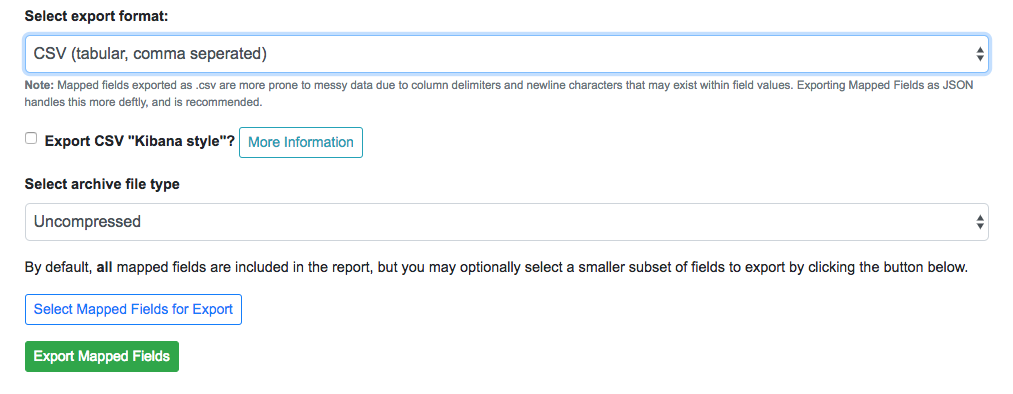
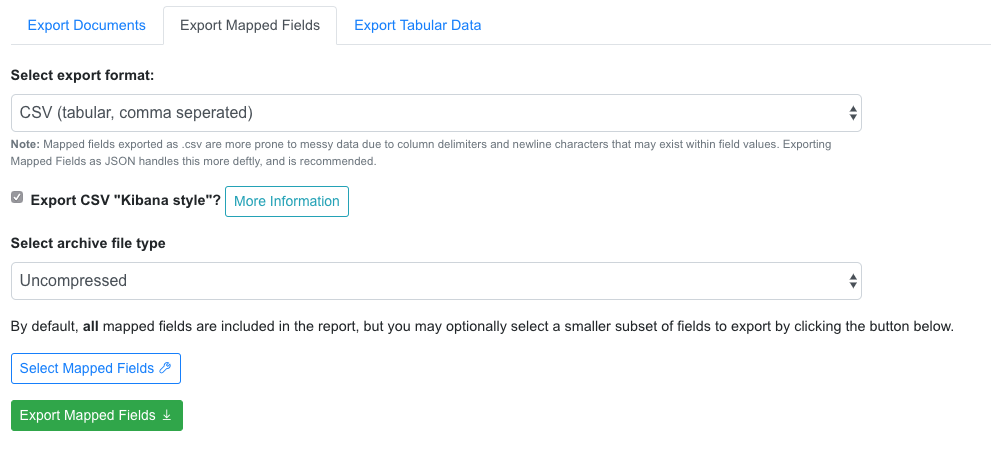
building out tab export harvest docs

diff --git a/core/templates/core/job_harvest_tabular_data.html b/core/templates/core/job_harvest_tabular_data.html
@@ -8,7 +8,7 @@
 			<p>Harvest Records from tabular data, including .CSV and JSONlines.</p>
 		</div>
 	</div>
-		
+
 
 	<div class="row">
 		<div class="col-md-12">
@@ -30,19 +30,19 @@
 							<span aria-hidden="true">&times;</span>
 							</button>
 						</div>
-						{% csrf_token %}						
+						{% csrf_token %}
 
 						<!-- payload -->
 						<h5>Provide Static Content</h5>
 						<p>For static harvests, upload content, or provide a location on the filesystem where a file can be found.</p>
-						
+
 						<ul class="nav nav-tabs">
 							<li class="nav-item">
 								<a class="nav-link active" data-toggle="tab" href="#upload_tab">Upload</a>
 							</li>
-							<li class="nav-item">								
+							<li class="nav-item">
 								<a class="nav-link" data-toggle="tab" href="#filesystem_tab">Filesystem</a>
-							</li>					
+							</li>
 						</ul>
 
 						<div class="tab-content">
@@ -53,15 +53,15 @@
 									<button type="button" class="close" data-dismiss="alert" aria-label="Close">
 									<span aria-hidden="true">&times;</span>
 									</button>
-								</div>								
+								</div>
 								<div class="custom-file">
 								   <input type="file" id="static_payload" name="static_payload" class="custom-file-input">
 								   <label for="static_payload" class="custom-file-label">Choose file...</label>
 								</div>
 								<script>
-									$('.custom-file-input').on('change', function() { 
-									   let fileName = $(this).val().split('\\').pop(); 
-									   $(this).next('.custom-file-label').addClass("selected").html(fileName); 
+									$('.custom-file-input').on('change', function() {
+									   let fileName = $(this).val().split('\\').pop();
+									   $(this).next('.custom-file-label').addClass("selected").html(fileName);
 									});
 								</script>
 							</div>
@@ -84,13 +84,13 @@
 				<div class="row">
 
 					<div class="col-md-12">
-						
+
 						<div class="gray_box">
 
 							<h5>Ingest Parameters</h5>
 
 							<p>The same configuration language used to map fields from XML, is the same used to create XML from fields!  Select a pre-existing field mapper configuration, or edit the one below, to be used for this tabular harvest.</p>
-							
+
 							<div class="form-group">
 								<label for="harvest_field_mapper">Configuration Name</label>
 								<select class="form-control" id="harvest_field_mapper" name="harvest_field_mapper">
@@ -109,7 +109,7 @@
 
 							<!-- visible JSON editor -->
 							<div id="harvest_config_editor" style="height:450px;"></div>
-							
+
 							<script>
 						        // create the editor
 						        var container = document.getElementById("harvest_config_editor");
@@ -245,7 +245,7 @@
 									},
 									dataType:'json',
 									success: function(data){
-										
+
 										// notify user
 										alert = `<div class="alert alert-success alert-dismissible fade show expiring" role="alert">
 											${data.msg}
@@ -256,7 +256,7 @@
 										$("#fm_harvest_config_alerts").append(alert);
 									},
 									error: function(data){
-										
+
 										// notify user
 										alert = `<div class="alert alert-danger alert-dismissible fade show expiring" role="alert">
 											${data.responseJSON.msg}
@@ -269,18 +269,18 @@
 								});
 							}
 							else {
-								alert('A name for this configuration is rquired!');								
+								alert('A name for this configuration is rquired!');
 							}
 						}
 
 					</script>
 
-				</div>				
-				
+				</div>
+
 				<!-- Optional Job Processing -->
 				{% include 'core/job_optional_processing.html' %}
 
-				<button type="submit" class="btn btn-success btn-sm">Run Static Harvest Job <i class="la la-play"></i></button>
+				<button type="submit" class="btn btn-success btn-sm">Run Tabular Harvest Job <i class="la la-play"></i></button>
 
 			</form>
 

diff --git a/core/templates/core/export.html b/core/templates/core/export.html
@@ -14,7 +14,7 @@
 			</p>
 
 			<div class="alert alert-info alert-dismissible fade show" role="alert">
-				Select a tab below to export Records as <strong>full XML Documents</strong>, <strong>Mapped Fields as JSON</strong>, or <strong>Mapped Fields as CSV</strong>
+				Select a tab below to export Records as <strong>full XML Documents</strong>, <strong>Mapped Fields</strong>, or <strong>Tabular Data</strong>
 				<button type="button" class="close" data-dismiss="alert" aria-label="Close">
 				<span aria-hidden="true">&times;</span>
 				</button>

diff --git a/docs/harvesting.rst b/docs/harvesting.rst
@@ -4,7 +4,11 @@ Harvesting Records
 
 Harvesting is how Records are first introduced to Combine.  Like all Jobs, Harvest Jobs are run from the the Record Group overview page.
 
-The following will outline specifics for running Harvest Jobs, with more `general information about running Jobs here <workflow.html#running-jobs>`_.
+The following will outline specifics for running Harvest Jobs, with more `general information about running Jobs here <workflow.html#running-jobs>`_.  Currently, Combine supports the following types of harvests:
+
+  * `OAI-PMH <#oai-pmh-harvesting>`_
+  * `Static XML <#static-xml-file-harvest>`_
+  * `Tabular / Spreadsheet <#tabular-data-spreadsheet-harvesting>`_
 
 
 OAI-PMH Harvesting
@@ -16,7 +20,7 @@ Before running an OAI harvest, you must first `configure an OAI Endpoint <config
 
 From the Record Group page, click the "Harvest OAI-PMH" button at the bottom.
 
-Like all Jobs, you may optionally give the Job a name or add notes.  
+Like all Jobs, you may optionally give the Job a name or add notes.
 
 Below that, indicated by a green alert, are the required parameters for an OAI Job.  First, is to select your pre-configured OAI endpoint.  In the screenshot below, an example OAI endpoint has been selected:
 
@@ -39,8 +43,8 @@ As an Harvest type Job, OAI harvests are responsible for creating a Record Ident
 As you continue on your metadata harvesting, transforming, and publishing journey, and you are thinking about how identifiers came to be, or might be changed, this is a good place to start from to see what the originating identifier was.
 
 
-Static File Harvest
-===================
+Static XML File Harvest
+=======================
 
 It is also possible to harvest Records from static sources, e.g. XML uploads.  Combine uses `Databricks Spark-XML <https://github.com/databricks/spark-xml>`_ to parse XML records from uploaded content.  This utilizes the powerful `globbing capabilities of Hadoop <https://hail.is/docs/stable/hadoop_glob_patterns.html>`_ for locating XML files.  Users may also provide a location on disk as opposed to uploading a file, but this is probably less commonly used, and the documentation will focus on uploads.
 
@@ -96,7 +100,7 @@ Once a file has been selected for uploading, and these required parameters are s
 Is this altering the XML records that I am providing Combine?
 -------------------------------------------------------------
 
-The short answer is, **yes**.  But, it's important to remember that XML files are often altered in some way when parsed and re-serialized.  Their integrity is not character-by-character similarlity, but what data can be parsed.  This approach only alters the declarations in the root XML element.  
+The short answer is, **yes**.  But, it's important to remember that XML files are often altered in some way when parsed and re-serialized.  Their integrity is not character-by-character similarlity, but what data can be parsed.  This approach only alters the declarations in the root XML element.
 
 Uploads to Combine that already include namespaces, and all required declarations, at the level of each individual Record, do not require this re-writing and will leave the XML untouched.
 
@@ -127,6 +131,131 @@ For static harvests, identifiers can be created in one of two ways:
    :target: _images/static_harvest_identifier.png
 
    Form for providing optional XPath for retrieving identifier
+
+
+Tabular Data (Spreadsheet) Harvesting
+=====================================
+
+Tabular (Spreadsheet) Data based harvesting allows the creation of XML records in Combine originating from tabular data such as CSV.  While not tabular in the same way as CSV with delimiters used for parsing data, Tabular Harvesting also supports JSON.  In fact, JSON has a higher accuracy rate for tabular harvest, but because it cannot be easily opened in spreadsheet software like Excel, is also potentially more complex to work with.
+
+
+Preparing Tabular Data for Harvest
+----------------------------------
+
+Tabular harvesting cannot take just any CSV or JSON data, however, it must follow some fairly prescriptive rules to generate valid and faithful XML.  There are two ways in which this tabular data may be prepared:
+
+  * **By hand**: users create tabular data (CSV or JSON) from scratch, paying careful attention to the creation of columns and fields
+  * **Export a Combine Job**: users may `export a pre-existing Job <exporting.html#export-tabular-data>`_ in a tabular format that is ready-made to be re-imported at a later time, ostensibly after being edited "outside" of Combine
+
+XML is, by nature, hierarchical.  The field ``foo`` may mean something different in an XML document when the child of ``bar`` or ``baz``.  Additionally, elements may repeat.  The qualities of repitition and hierarchy in XML introduce a notion of "siblings" between elements.  Take, for example, the following XML:
+
+.. code-block:: xml
+
+    <root>
+      <foo>
+        <!-- sibling set 1 -->
+        <bar>42</bar>
+        <baz>109</baz>
+      </foo>
+      <foo>
+        <!-- sibling set 2 -->
+        <bar>winter</bar>
+        <baz>mountain</baz>
+      </foo>
+    </root>
+
+The instance of ``bar`` that has the value ``42`` and the instance of ``baz`` that has the value of ``109`` are "siblings" in the sense they are both children of the same instance of ``foo``.  There are no qualifying identifiers to the first instance of ``foo`` that make it unique from the second, other than the 1) order in the XML document, and b) its child nodes.  The presents a unique challenge when converting tabular data, which is *not* hierarchical to XML, which *is*.  Combine navigates this situation through the idea of **sibling identifiers**.  By including sibling identifiers in the tabular data (think spreadsheet columns), we can reconstruct XML with the appropriate sibling organization and hierarchy.
+
+Tabular Data Harvesting uses the `same configurations <configurations.html#field-mapper-configurations>`_ that are used for mapping XML records to fields for indexing and analysis, with particular emphasis on some of the configurations like ``node_delim`` or ``multivalue_delim``.
+
+So, how might we create tabular data that would create the XML example above?  The following columns and data (CSV example) would create that XML:
+
+.. code-block:: text
+
+    root(1ac101)_foo(63a901)_bar(460701),root(1ac101)_foo(63a901)_baz(460701),root(1ac101)_foo(63a901)_bar(460702),root(1ac101)_foo(63a901)_baz(460702)
+    42,109,winter,mountain
+
+It's not pretty, but it's functional.  The sibling identifiers are affixed at each level of hierarchy in the XML.  The very last one for ``baz``, ``460702``, is a unique id of ``4607`` and a counter of ``02`` which suggests it's part of sibling set #2.
+
+Tt should be noted, if hierarchy and siblings are not important -- like might be the case with popular formats such as Dublin Core -- then the sibling identifiers can be left out entirely.  To create the following XML:
+
+.. code-block:: xml
+
+    <dc>
+      <title>Amazing Title here!</title>
+      <subject>literature</subject>
+      <subject>books</subject>
+      <subject>culture</subject>
+    </dc>
+
+We would only need the following, paying attention to the ``|`` delimiter used for multivalued cells:
+
+.. code-block:: text
+
+    dc_title,dc_subject
+    Amazing Title here!,literature|books|culture
+
+
+Example
+-------
+
+Suppose we want to:
+  * export a Job from Combine into tabular form -- CSV -- and edit this data in Excel
+  * then, perform a Tabular Harvest to import this data back to Combine
+
+The first step would be to export a Combine Job as Tabular Data, as describe here.  Paying special attention, or better yet saving as a saved Field Mapper Configuration, the **export parameters** used as they will be needed when harvesting.
+
+Second, would be to navigate to a Record Group and select "Harvest Tabular Data" from the New Job section.  Next, would be to either upload the CSV or JSON file, or point to a location on disk:
+
+.. figure:: img/csv_upload.png
+   :alt: Uploading CSV document for Tabular Data Harvest
+   :target: _images/csv_upload.png
+
+   Uploading CSV document for Tabular Data Harvest
+
+Next, and arguably the most important piece of the puzzle, is providing **Ingest Parameters** that align with the parameters used to create the tabular data.  This includes things like delimiters used, whether namespace prefixes are included, and importantly, a hash of namespaces that might be encountered if they are.  These configurations are mixed in with defaults, so if none are provided, the defaults are assumed to apply.
+
+In this example, a saved configuration called ``KVPS`` has been selected to use:
+
+.. figure:: img/tab_harvest_params.png
+   :alt: Configurations for Tabular Harvest
+   :target: _images/tab_harvest_params.png
+
+   Configurations for Tabular Harvest
+
+Of particular note, the namespaces at the bottom, and delimiters used.  These can be tricky to configure the first time, but the idea is that they can be re-used in the future, by anyone (or exported and shared!)
+
+Select all optional parameters, as per usual for a Job, and click "Run Tabular Harvest Job" at the bottom.
+
+
+Technical Details
+-----------------
+
+As of this writing, Tabular Harvest is a bit slower than OAI-PMH or static files.  This is, in part, because the XML is being contructed during harvest, as opposed to the straight retrieval and saving of pre-formed XML.
+
+Additionally, when harvesting CSV (as opposed to JSON) a couple of flags are particularly important:
+
+  * ``multivalue_delim``: this flag describes the delimiter used inside multivalued cells, it is important this *not* be a comma ``,`` as this will collide with the comma used as the delimiter between columns.  Pipe ``|`` is usually a relatively safe bet.
+
+  * ``include_sibling_id``: required if sibling identifiers have been included in the column names
+
+  * ``nsmap``: required if namespaces are used in XML record
+
+
+Discussion
+----------
+
+At first glance, this may seem more complicated, and more trouble than it's worth.  But, consider the possibility for metadata editing!  Recall that this tabular data can be exported by Combine automatically, edited in the "outside world", and then re-harvested.  This would allow tabular (spreadsheet) editing of a group of Records, which could be very difficult for 1k, 10k, 100k of XML Records, and then have the re-harvested.  Or, as demonstrated with the Dublin Core example above, where sibling identifiers are not needed, the columns are still quite human readable.
+
+
+
+
+
+
+
+
+
+
 
 
 

diff --git a/docs/exporting.rst b/docs/exporting.rst
@@ -246,7 +246,21 @@ That's effectively 1.5million documents to export.  If this exists in a "pipelin
 Exporting Records
 =================
 
-Records can be exported in two ways: a series of XML files aggregating the XML document for each Record, or the Mapped Fields for each Record as structured data.  Records from a Job, or all Published Records, may be exported.  Both are found under the "Export" tab in their respective screens.
+Records can be exported in three ways:
+
+  * `XML Documents <#export-xml-documents>`_
+
+    * *a series of XML files aggregating the XML document for each Record*
+
+  * `Mapped Fields <#export-mapped-fields>`_
+
+    * *Mapped fields for each Record as structured data (CSV or JSON)*
+
+  * `Tabular Data <#export-tabular-data>`_
+
+    * *Export that is suitable for editing "outside" of Combine and re-harvesting (CSV or JSON)*
+
+For any of these methods, records from a single Job, or all Published Records, may be exported.
 
 
 Export XML Documents
@@ -316,9 +330,9 @@ CSV
 
 Alternatively, mapped fields can be exported as comma-seperated, tabular data in .csv format.  As mentioned, this does not as deftly handle characters that may disrupt column delimiters
 
-.. figure:: img/export_mapped_json.png
+.. figure:: img/export_mapped_csv.png
    :alt: Export Mapped Fields as JSON documents
-   :target: _images/export_mapped_json.png
+   :target: _images/export_mapped_csv.png
 
    Export Mapped Fields as JSON documents
 
@@ -335,3 +349,22 @@ But if the checkbox, ``Export CSV "Kibana style"?`` is checked, all multi-valued
 
     mods_subject_topic
     history,michigan,snow
+
+
+Export Tabular Data
+-------------------
+
+Exporting Tabular Data has some similarity with exporting `mapped fields <#export-mapped-fields>`_, but for a different purpose.  Exporting Tabular Data will export either CSV or JSON suitable for re-harvesting back into Combine as a `Tabular Data Harvest <harvesting.html#tabular-data-spreadsheet-harvesting>`_.  To this end, Tabular Data harvesting is a bit more forgiving for field names, and total number of fields.  More tecnically, the export is not coming from ElasticSearch where mapped fields live for a Job, but instead, directly from the XML documents.
+
+Some options looks similar to mapped fields exporting, but also include a section for "Export Parameters":
+
+.. figure:: img/export_tabular.png
+   :alt: Export Mapped Fields as JSON documents
+   :target: _images/export_tabular.png
+
+   Export Mapped Fields as JSON documents
+
+These export parameters -- either configured at the time of export, or loaded from a pre-existing configuration -- are used to modify delimiters and other options for the CSV or JSON export.  You can `read more about harvesting tabular data here <harvesting.html#tabular-data-spreadsheet-harvesting>`_, but suffice it to say now that it can be helpful to **save** the configurations used when exporting such that they can be used later for re-harvesting.  In short, they provide a shared set of configurations for round-tripping data.
+
+
+
